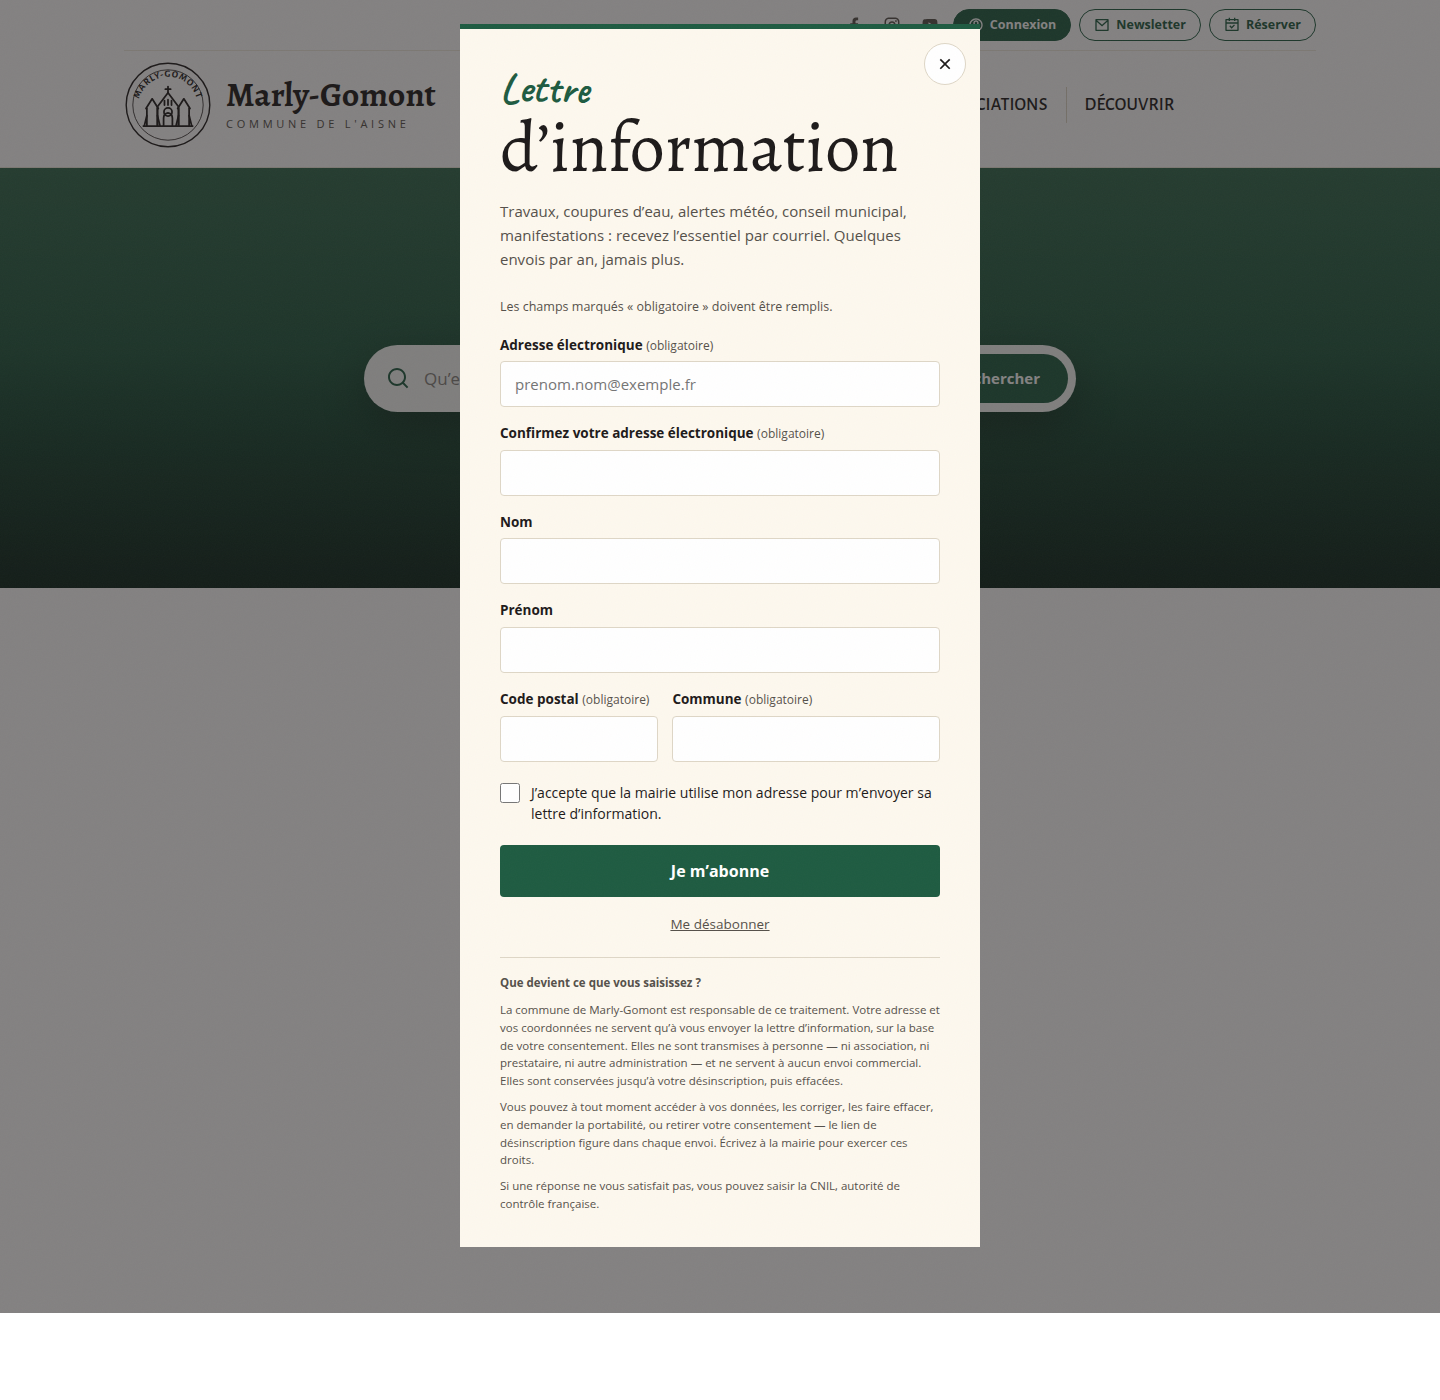
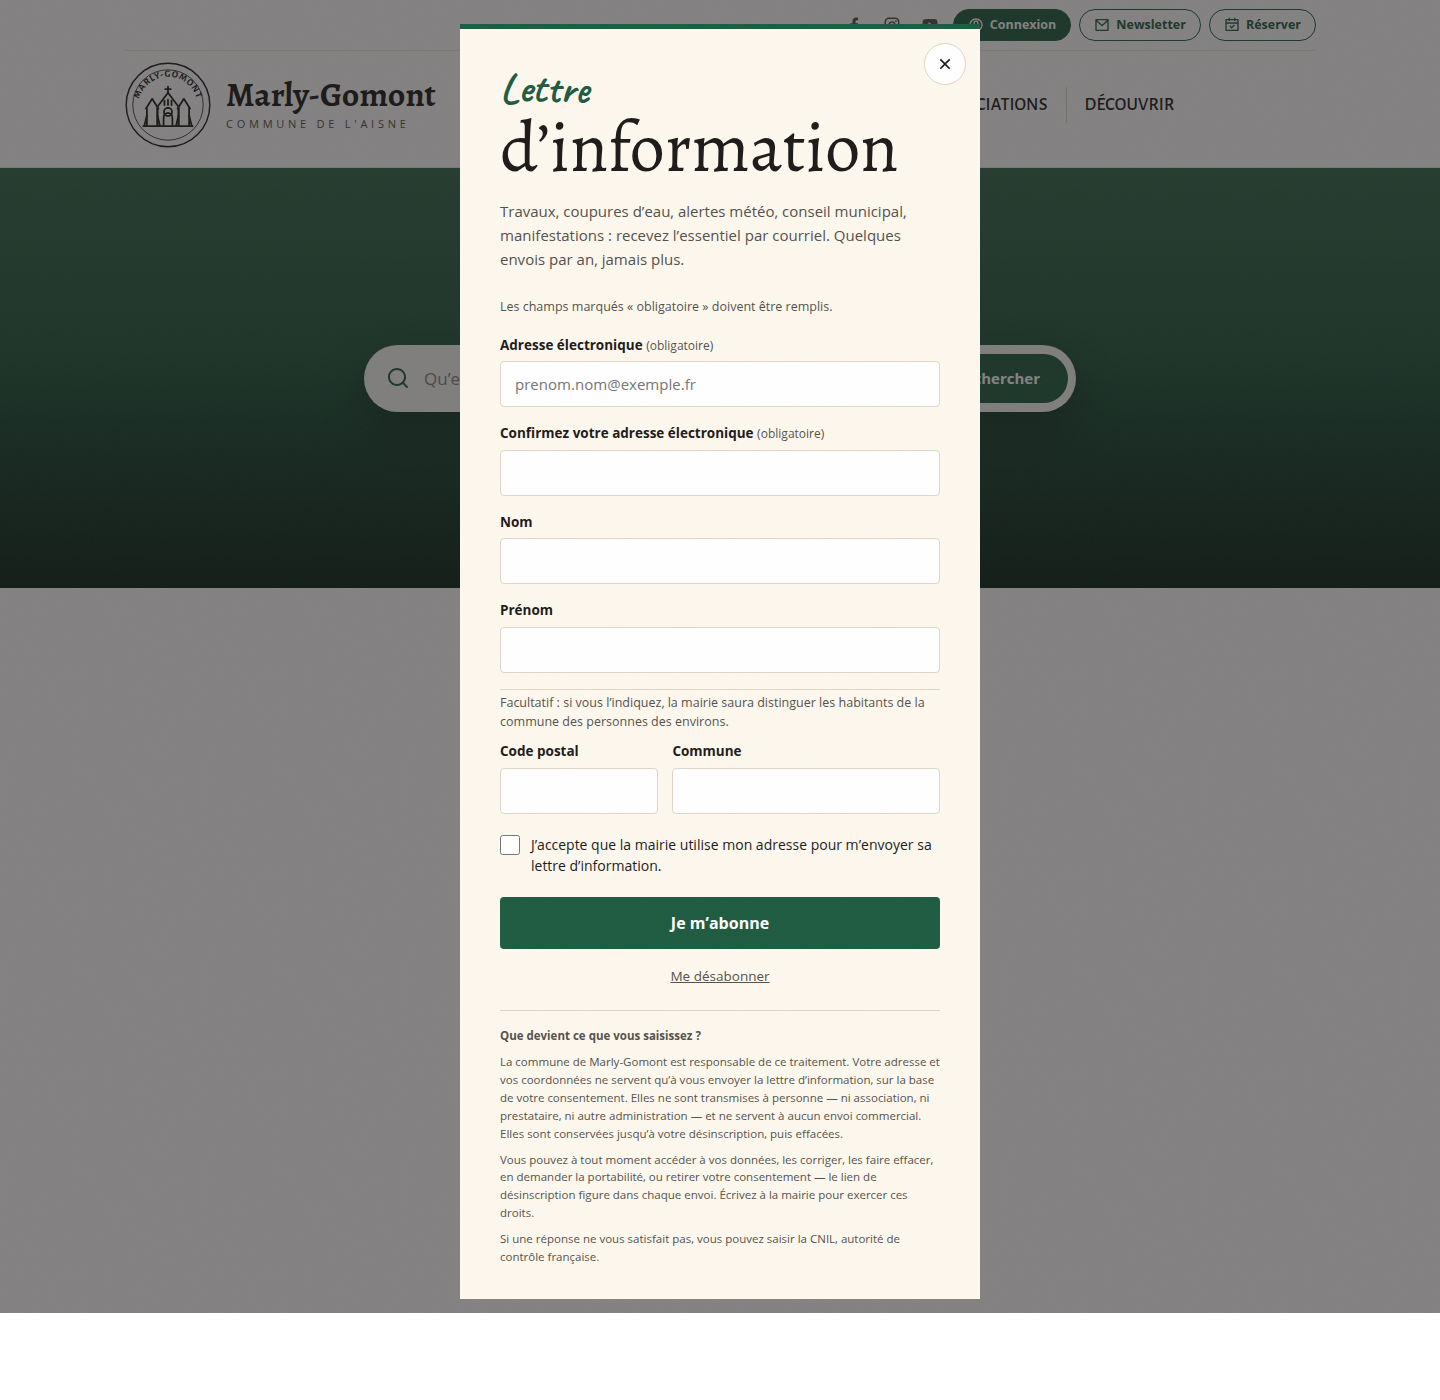
Code postal et commune deviennent facultatifs
Ils etaient obligatoires, repris du modele. Le RGPD impose de ne
collecter que ce qui sert : tant que la mairie n'a qu'une lettre pour
tout le monde, distinguer les habitants des voisins ne sert a rien.

Seule l'adresse electronique reste obligatoire — et sa confirmation, qui
n'est pas une donnee de plus mais la meme, saisie deux fois pour attraper
la faute de frappe.

Une phrase remplace la mention << obligatoire >> : elle dit a quoi ces
champs servent si on les remplit, plutot que de les demander sans
expliquer. Un champ facultatif dont on ignore l'usage n'est jamais rempli.

Le sens de cette decision compte : on peut rendre un champ obligatoire
plus tard, le jour ou la mairie voudra cibler ses envois. On ne peut pas
effacer une collecte deja faite.

Changed region(s): [[0.3125, 0.4914, 0.6875, 0.9521]]

diff --git a/theme-marly/apercu/newsletter-publiable.html b/theme-marly/apercu/newsletter-publiable.html
@@ -1006,6 +1006,8 @@ a.cal-jour.choisi{ background:var(--accent); color:#fff; }
 
 /* --- Lettre d'information : champs, bascule, mention ---------------------- */
 .nl-requis{ font-family:var(--texte); font-size:12.5px; color:var(--encre-doux); margin:0 0 18px; }
+.nl-facultatif{ font-family:var(--texte); font-size:12.5px; line-height:1.5; color:var(--encre-doux);
+                margin:0 0 10px; padding-top:4px; border-top:1px solid var(--trait); }
 .formulaire_newsletter .obligatoire{ font-weight:400; font-size:12px; color:var(--encre-doux); }
 
 /* Deux champs courts côte à côte : code postal et commune vont ensemble,
@@ -1203,7 +1205,6 @@ a.cal-jour.choisi{ background:var(--accent); color:#fff; }
 		<button class="fermer" type="button">
 			<svg class="ico" aria-hidden="true"><use href="#ri-close-line"/></svg><span class="sr">Fermer</span>
 		</button>
-
 		<h2 class="titre-bloc">Lettre <span>d’information</span></h2>
 		<p class="nl-intro">Travaux, coupures d’eau, alertes météo, conseil municipal,
 		manifestations : recevez l’essentiel par courriel. Quelques envois par an, jamais plus.</p>
@@ -1222,10 +1223,13 @@ a.cal-jour.choisi{ background:var(--accent); color:#fff; }
 <input type="text" class="text" id="nl-prenom" ></li>
 				</ul>
 
+				<p class="nl-facultatif">Facultatif : si vous l’indiquez, la mairie saura distinguer
+				les habitants de la commune des personnes des environs.</p>
+
 				<div class="rang-lieu">
-					<ul><li class="editer editer_code_postal"><label for="nl-code_postal">Code postal <span class="obligatoire">(obligatoire)</span></label>
+					<ul><li class="editer editer_code_postal"><label for="nl-code_postal">Code postal</label>
 <input type="text" class="text" id="nl-code_postal" maxlength="5" inputmode="numeric"></li></ul>
-					<ul><li class="editer editer_ville"><label for="nl-ville">Commune <span class="obligatoire">(obligatoire)</span></label>
+					<ul><li class="editer editer_ville"><label for="nl-ville">Commune</label>
 <input type="text" class="text" id="nl-ville" ></li></ul>
 				</div>
 

diff --git a/plugin-marly/formulaires/inscription_newsletter.html b/plugin-marly/formulaires/inscription_newsletter.html
@@ -71,21 +71,23 @@
 				</li>
 			</ul>
 
+			<p class="nl-facultatif"><:marly:lieu_facultatif:></p>
+
 			<div class="rang-lieu">
 				<ul>
 				<li class="editer editer_code_postal[ (#ENV**{erreurs}|table_valeur{code_postal}|oui)erreur]">
-					<label for="nl-code_postal"><:marly:code_postal:> <span class="obligatoire"><:marly:obligatoire:></span></label>
+					<label for="nl-code_postal"><:marly:code_postal:></label>
 					[<span class="erreur_message">(#ENV**{erreurs}|table_valeur{code_postal})</span>]
 					<input type="text" class="text" name="code_postal" id="nl-code_postal"
-					       value="[(#ENV{code_postal}|attribut_html)]" autocomplete="postal-code" inputmode="numeric" pattern="[0-9]{5}" maxlength="5" required aria-required="true">
+					       value="[(#ENV{code_postal}|attribut_html)]" autocomplete="postal-code" inputmode="numeric" pattern="[0-9]{5}" maxlength="5">
 				</li>
 								</ul>
 				<ul>
 				<li class="editer editer_ville[ (#ENV**{erreurs}|table_valeur{ville}|oui)erreur]">
-					<label for="nl-ville"><:marly:ville:> <span class="obligatoire"><:marly:obligatoire:></span></label>
+					<label for="nl-ville"><:marly:ville:></label>
 					[<span class="erreur_message">(#ENV**{erreurs}|table_valeur{ville})</span>]
 					<input type="text" class="text" name="ville" id="nl-ville"
-					       value="[(#ENV{ville}|attribut_html)]" autocomplete="address-level2" required aria-required="true">
+					       value="[(#ENV{ville}|attribut_html)]" autocomplete="address-level2">
 				</li>
 				</ul>
 			</div>

diff --git a/theme-marly/squelettes/css/theme.css b/theme-marly/squelettes/css/theme.css
@@ -926,6 +926,8 @@ a.cal-jour.choisi{ background:var(--accent); color:#fff; }
 
 /* --- Lettre d'information : champs, bascule, mention ---------------------- */
 .nl-requis{ font-family:var(--texte); font-size:12.5px; color:var(--encre-doux); margin:0 0 18px; }
+.nl-facultatif{ font-family:var(--texte); font-size:12.5px; line-height:1.5; color:var(--encre-doux);
+                margin:0 0 10px; padding-top:4px; border-top:1px solid var(--trait); }
 .formulaire_newsletter .obligatoire{ font-weight:400; font-size:12px; color:var(--encre-doux); }
 
 /* Deux champs courts côte à côte : code postal et commune vont ensemble,

diff --git a/plugin-marly/formulaires/inscription_newsletter.php b/plugin-marly/formulaires/inscription_newsletter.php
@@ -69,12 +69,12 @@ function formulaires_inscription_newsletter_verifier_dist($mode = 'abonnement') 
 		$erreurs['courriel_bis'] = _T('marly:erreur_courriels_differents');
 	}
 
-	foreach (array('code_postal', 'ville') as $champ) {
-		if (!trim((string) _request($champ))) {
-			$erreurs[$champ] = _T('marly:erreur_obligatoire');
-		}
-	}
-
+	/* Le code postal et la commune sont FACULTATIFS. Le RGPD impose de ne
+	   collecter que ce qui sert : tant que la mairie n'a qu'une lettre pour
+	   tout le monde, distinguer les habitants des voisins ne sert a rien.
+	   Le jour ou elle voudra cibler, on les rendra obligatoires — dans ce
+	   sens-la c'est possible, l'inverse ne l'est pas : on ne peut pas
+	   effacer une collecte deja faite. */
 	$cp = trim((string) _request('code_postal'));
 	if ($cp && !preg_match(',^\d{5}$,', $cp)) {
 		$erreurs['code_postal'] = _T('marly:erreur_code_postal');

diff --git a/plugin-marly/lang/marly_fr.php b/plugin-marly/lang/marly_fr.php
@@ -308,6 +308,7 @@ adresse ne sera pas utilisée et sera effacée sous sept jours.
 	'code_postal'           => 'Code postal',
 	'ville'                 => 'Commune',
 	'requis_explication'    => 'Les champs marqués « obligatoire » doivent être remplis.',
+	'lieu_facultatif'       => 'Facultatif : si vous l’indiquez, la mairie saura distinguer les habitants de la commune des personnes des environs.',
 	'me_desabonner'         => 'Me désabonner',
 	'plutot_mabonner'       => 'Plutôt m’abonner',
 	'desabonnement_intro'   => 'Indiquez l’adresse à retirer de la liste. Nous vous enverrons un lien de confirmation — ainsi personne ne peut désabonner quelqu’un d’autre.',

diff --git a/theme-marly/CONFORMITE.md b/theme-marly/CONFORMITE.md
@@ -12,6 +12,7 @@ pas**. Il sert à ne pas promettre au maire une conformité qui n'existe pas.
 | Champs obligatoires signalés | idem | mention **texte** « (obligatoire) » — l'astérisque seul et la couleur seule ne sont pas perçus par tout le monde (RGAA 11.10) |
 | Nature des champs annoncée | idem | `autocomplete="name"`, `"email"`, `"tel"`, `"organization"` — WCAG 1.3.5, niveau AA. Cela remplit aussi le formulaire tout seul pour qui a enregistré ses coordonnées, ce qui compte pour une personne âgée |
 | Erreurs identifiées en texte | idem | message écrit sous l'étiquette, jamais un simple encadrement rouge |
+| Minimisation des données | inscription à la lettre | seule l'adresse électronique est obligatoire. Code postal et commune sont facultatifs : tant que la mairie n'a qu'une lettre pour tout le monde, distinguer les habitants des voisins ne sert à rien. On peut toujours les rendre obligatoires plus tard ; on ne peut pas effacer une collecte déjà faite |
 | Information RGPD à la collecte | idem | mention dépliable sous chaque formulaire : finalité, durée, absence de transmission, droits. L'article 13 impose d'informer **au moment de la collecte** — un renvoi vers une page de confidentialité ne suffit pas seul |
 | Polices auto-hébergées | tout le site | aucun appel à Google Fonts : un CDN transmet l'IP de chaque visiteur à un tiers |
 | Vidéos sans traceur avant consentement | fiches d'événement | façade au clic. Rien de la plateforme n'est chargé — pas même la vignette, qui suffirait à transmettre l'IP |
